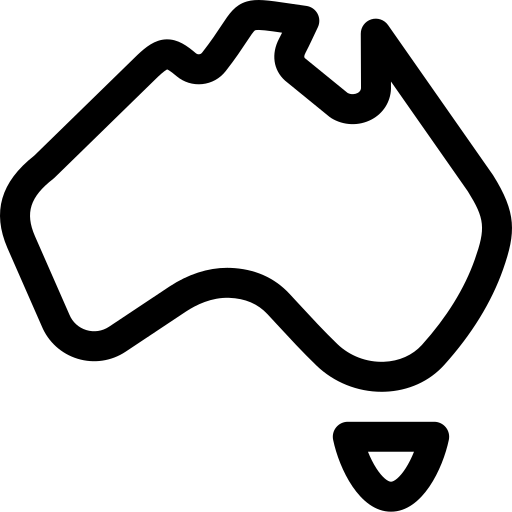
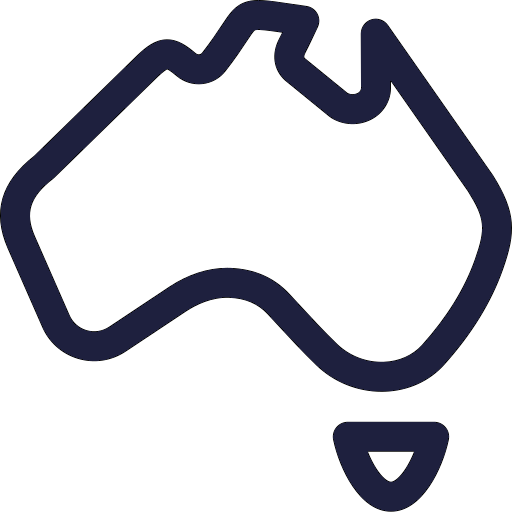
Changed the whole theme to light
changed hero page to be simple and light
changed navbar to be light
changed colours to blue and grey
changed contact us page to be simpler and focus more on the contact details

Changed region(s): [[0.0, 0.0, 1.0, 0.7812], [0.625, 0.8125, 0.875, 1.0]]

diff --git a/mry_portfolio/src/Styles/Home.css b/mry_portfolio/src/Styles/Home.css
@@ -14,25 +14,31 @@ body{
   margin: 0;
   /* height: 100vh; */
   /* overflow: hidden; */
-  background: radial-gradient(circle, #353535 20%, #242424 70%);
+  /* background: radial-gradient(circle, #353535 20%, #242424 70%); */
+  background-color: #f6f5fa;
   position: relative;
 
 }
 
+p {
+  color: #1e203e;
+}
+
 .homeTitle{
-  color: white;
+  color: #1e203e;
   font-family: "Instrument Sans", sans-serif;
   font-size: 4rem;
   animation: fadeIn 1s ease-in-out;
+  text-align: center;
   /* bottom: 33vh; */
   /* position: relative; */
 }
 
 .homeTitle .titleHighlight{
   font-family: 'Lily Script One', cursive;
-  color: white;
+  color: #1e203e;
   /* background: linear-gradient(to right, rgb(255, 0, 166), rgb(31, 38, 255)); */
-  background: linear-gradient(to right, #db0000d1, #03fa63d1);
+  background: linear-gradient(to right, #2a8fa8, #0d98ba);;
   -webkit-background-clip: text;
   -webkit-text-fill-color: transparent;
 }
@@ -49,7 +55,7 @@ body{
   bottom: -10px;
   width: 100%;
   height: 5px;
-  background-color: white;
+  background-color: #1e203e;
   transform: scaleX(0);
   transform-origin: left;
   transition: transform 1s ease-in-out;
@@ -79,11 +85,11 @@ body{
 }
 
 .homeText{
-  color: white;
+  color: #1e203e;
   font-size: 1.5rem;
   animation: fadeIn 2s ease-in-out;
   font-weight: bold;
-  text-shadow: 0px 2px 2px rgba(0, 0, 0, 0.5);
+  /* text-shadow: 0px 2px 2px rgba(0, 0, 0, 0.5); */
 }
 
 .home {
@@ -105,16 +111,44 @@ body{
   width: 100%;
   height: 100vh;
   display: flex;
-  flex-direction: column;
+  flex-direction: row;
   justify-content: center;
   align-items: center;
-  background-image: url('../Assets/homeRedshapes.jpg'); 
-  /* background-color: #232323; */
+  /* background-image: url('../Assets/homeRedshapes.jpg');  */
+  /* background-color: #1e203e; */
   /* background: radial-gradient(circle, #303030cc 30%, #232323cc 70%); */
   background-size: cover;
   background-position: center;
   background-repeat: no-repeat;
+  box-shadow: 0 1px 10px rgba(152, 152, 152, 0.221);
+  border-bottom: #444;
 }
+
+.heroLeft {
+  width: 55%;
+  height: 100vh;
+  display: flex;
+  flex-direction: column;
+  justify-content: center;
+  align-items: center;
+}
+
+.heroMiddleLine {
+  width: 2px;
+  height: 60%;
+  background-color: #444;
+  margin: 0 2rem;
+}
+
+.heroRight {
+  width: 44%;
+  height: 100vh;
+  display: flex;
+  flex-direction: column;
+  justify-content: center;
+  align-items: center;
+}
+
 
 .homeContent {
   display: flex;
@@ -124,7 +158,7 @@ body{
   height: 100vh;
   width: 100%;
   position: relative;
-  background: radial-gradient(circle, #452e2e 20%, #3d3737 70%);
+  /* background: radial-gradient(circle, #452e2e 20%, #3d3737 70%); */
 }
 
 .homeContentLeft {
@@ -178,7 +212,7 @@ body{
 .homeEnquireButton{
   /* background: linear-gradient(90deg, rgba(122, 122, 122, 0.9) 10%, rgba(50, 50, 50, 0.9) 90%); */
   /* background: linear-gradient(100deg, #db0000cc, #03fa63cc); */
-  background-color: rgba(219, 0, 0, 0.37);
+  background-color: #0d98ba;
   color: white;
   padding: 10px 20px;
   border-radius: 50px;
@@ -259,13 +293,13 @@ body{
   align-items: center;
   justify-content: flex-end;
   animation: fadeIn 2s ease-in-out;
-  height: 30%;
+  height: 15%;
 
 }
 
 /* Scroll Text */
 .scrollText {
-  color: white;
+  color: #1e203e;
   font-size: 1rem;
   margin-bottom: 0.5rem;
   font-family: 'Instrument Sans', sans-serif;
@@ -276,7 +310,7 @@ body{
 .scrollArrow {
   width: 20px;
   height: 20px;
-  color: white;
+  color: #1e203e;
   /* transform: rotate(-45deg); */
   animation: bobbing 1.5s infinite ease-in-out;
 }

diff --git a/mry_portfolio/src/About.jsx b/mry_portfolio/src/About.jsx
@@ -1,12 +1,20 @@
 import "./Styles/About.css";
+import { useNavigate } from "react-router-dom";
 
 export default function About() {
-    return (
-        <div className="About">
-            <h1 className="AboutTitle">About Us</h1>
-            <p className="AboutText">We are a web design and development company that specializes in creating custom websites tailored to your needs.</p>
-            <p className="AboutText">Our team is dedicated to providing high-quality services and fast replies to all inquiries.</p>
-            <p className="AboutText">Contact us today to learn more about how we can help you achieve your online goals!</p>
-        </div>
-    );
+  const navigate = useNavigate();
+
+  const handleEnquireClick = () => {
+    navigate("/contact");
+  };
+
+  return (
+    <div className="About">
+      <h1 className="AboutTitle">About Us</h1>
+      <p className="AboutText">At MRY, we believe every business deserves a digital presence that stands out. Our mission is simple: to craft custom websites that elevate brands, drive growth and modernise businesses.</p>
+      <p className="AboutText">We’re a team of creative thinkers, problem-solvers, and tech enthusiasts united by a passion for designing impactful online experiences. Whether you’re a startup looking to make your mark or an established business ready to grow, MRY is here to bring your vision to life.</p>
+      <p className="AboutText">Contact us today to learn more about how we can help you achieve your online goals!</p>
+      <button className="homeEnquireButton" onClick={handleEnquireClick}>Enquire Now</button>
+    </div>
+  );
 }

diff --git a/mry_portfolio/src/Home.jsx b/mry_portfolio/src/Home.jsx
@@ -5,6 +5,7 @@ import CodeExample from "./Assets/CodeExample.png";
 import PCIcon from "./Assets/PCIcon.png";
 import CubeIcon from "./Assets/cubeIcon.png";
 import CodeIcon from "./Assets/CodeIcon.png";
+import heroImage from "./Assets/MRYLogo2Light.png";
 import { useNavigate } from "react-router-dom";
 import { useEffect } from "react";
 
@@ -29,16 +30,24 @@ function Home() {
   return (
     <div className="home">
       <div className="heroPage">
-        {/* <div className="homeTitleContainer"> */}
+        <div className="heroLeft">
+          {/* <div className="homeTitleContainer"> */}
           <h1 className="homeTitle">Websites That <span className="titleUnderline">Elevate </span> Your <span className="titleHighlight">Brand</span></h1>
           <button className="homeEnquireButton" onClick={handleEnquireClick}>Enquire Now</button>
-        {/* </div> */}
-        <div className="scrollPrompt">
-          <span className="scrollText">Scroll For More</span>
-          <div className="scrollArrow">
-            <p>V</p>
-          </div>
-        </div>  
+          {/* </div> */}
+          <div className="scrollPrompt">
+            <span className="scrollText">Scroll For More</span>
+            <div className="scrollArrow">
+              <p>V</p>
+            </div>
+          </div>  
+        </div>
+        <div className="heroMiddleLine">
+
+        </div>
+        <div className="heroRight">
+          <img src={heroImage} className="heroImage" alt="MRY Logo"/>
+        </div>
       </div>
       <div className="homeContent">
         <div className="homeContentLeft">

diff --git a/mry_portfolio/src/Styles/NavBar.css b/mry_portfolio/src/Styles/NavBar.css
@@ -1,6 +1,6 @@
 .navbar {
     /* background: linear-gradient(90deg, rgba(122, 122, 122, 0.9) 10%, rgba(50, 50, 50, 0.9) 90%); */
-    background-color: rgba(0, 0, 0, 0.5);
+    background-color: rgba(255, 255, 255);
     width: 85%;
     height: 10vh;
     border-radius: 0;
@@ -19,6 +19,7 @@
     z-index: 1000;
     border-bottom: 1px solid rgba(108, 107, 107, 0.2);
     border-radius: 50px;
+    box-shadow: 0px 4px 10px rgba(0, 0, 0, 0.1);
 }
 
 .navbarlogo {
@@ -41,11 +42,19 @@
 }
 
 .navlink {
-    color: white;
+    color: #1e203e;
     text-decoration: none; 
     font-size: 1.2rem;
     font-weight: bold;
     position: relative;
+    transition: color 0.3s ease-in-out, background 0.5s ease-in-out;
+}
+
+.navlink:active {
+    color: #0d98ba;
+    background: linear-gradient(to right, #257e94, #0d8eae);
+    -webkit-background-clip: text;
+    -webkit-text-fill-color: transparent;
     transition: color 0.3s ease-in-out, background 0.5s ease-in-out;
 }
 
@@ -58,7 +67,7 @@
     bottom: -2px;
     width: 0;
     height: 2px;
-    background-color: white;
+    background-color: #1e203e;
     transition: width 0.3s ease-in-out;
 }
 
@@ -67,7 +76,7 @@
 }
 
 .navlink:hover {
-    background: linear-gradient(to right, #db0000cc, #03fa63cc);
+    background: linear-gradient(to right, #2a8fa8, #0d98ba);
     -webkit-background-clip: text;
     -webkit-text-fill-color: transparent;
     transition: color 0.3s ease-in-out, background 0.5s ease-in-out;

diff --git a/mry_portfolio/src/Styles/Contact.css b/mry_portfolio/src/Styles/Contact.css
@@ -16,9 +16,9 @@
   flex-direction: row;
   justify-content: center;
   align-items: center;
-  background-color: #1a1a1a;
+  background-color: white;
   border-radius: 20px;
-  box-shadow: 0 4px 20px rgba(0, 0, 0, 0.5);
+  box-shadow: 0 4px 8px rgba(0, 0, 0, 0.5);
 }
 
 .ContactRight {
@@ -48,14 +48,14 @@
 
 .ContactTitle {
   font-family: 'Roboto Mono', monospace;
-  color: white;
+  color: #0d98ba;
   font-size: 2.5rem;
   margin-bottom: 1rem;
 }
 
 .ContactText {
   font-family: 'Roboto Mono', monospace;
-  color: white;
+  color: #1e203e;
   font-size: 1.2rem;
   justify-content: center;
   text-align: center;
@@ -83,13 +83,12 @@
 .ContactIconImage {
   width: 50px;
   height: 50px;
-  border-radius: 50%;
   transition: transform 0.3s ease-in-out;
 }
 
 .ContactIconText {
   font-family: 'Roboto Mono', monospace;
-  color: white;
+  color: #1e203e;
   font-size: 1rem;
   justify-content: center;
 }

diff --git a/mry_portfolio/src/Components/NavBar.jsx b/mry_portfolio/src/Components/NavBar.jsx
@@ -1,6 +1,6 @@
 import { Link } from "react-router-dom";
 import "../Styles/NavBar.css";
-import MRYLogo from "../Assets/MRYLogoNavbar.png";
+import MRYLogo from "../Assets/MRYLogo2Cropped.png";
 
 export default function NavBar() {
     return (
@@ -11,9 +11,9 @@ export default function NavBar() {
                 </Link>
             </div>
             <div className="navlinks">
-                <Link to="/contact" className="navlink">Contact</Link>
+                <Link to="/contact" className="navlink">Contact us</Link>
                 <Link to="/projects" className="navlink">Projects</Link>
-                <Link to="/about" className="navlink">About us</Link>
+                <Link to="/about" className="navlink">About</Link>
             </div>
         </nav>
     );

diff --git a/mry_portfolio/public/index.html b/mry_portfolio/public/index.html
@@ -2,14 +2,14 @@
 <html lang="en">
   <head>
     <meta charset="utf-8" />
-    <link rel="icon" href="%PUBLIC_URL%/MRYLogoColored.png" />
+    <link rel="icon" href="%PUBLIC_URL%/MRYLogo2Cropped.png" />
     <meta name="viewport" content="width=device-width, initial-scale=1" />
     <meta name="theme-color" content="#000000" />
     <meta
       name="description"
       content="Web site created using create-react-app"
     />
-    <link rel="apple-touch-icon" href="%PUBLIC_URL%/MRYLogoColored.png" />
+    <link rel="apple-touch-icon" href="%PUBLIC_URL%/MRYLogo2Cropped.png" />
     <!--
       manifest.json provides metadata used when your web app is installed on a
       user's mobile device or desktop. See https://developers.google.com/web/fundamentals/web-app-manifest/

diff --git a/mry_portfolio/src/Contact.jsx b/mry_portfolio/src/Contact.jsx
@@ -6,7 +6,7 @@ import ReplyIcon from "./Assets/ReplyIcon.png";
 export default function Contact() {
     return (
         <div className="Contact">
-          <h1 className="ContactTitle">Let's Get In Touch</h1>
+          <h1 className="ContactTitle">Let's Get In Touch.</h1>
           <div className="ContactContainer">
             <div className="ContactLeft">
               <p className="ContactText">Contact us today to book a call and discuss your project. We'll tailor a site suitable for you and your business.</p>

diff --git a/mry_portfolio/src/Styles/About.css b/mry_portfolio/src/Styles/About.css
@@ -6,3 +6,7 @@
     align-items: center;
     margin-top: 10vh;
   }
+
+.AboutText {
+    color:#1e203e;
+}
